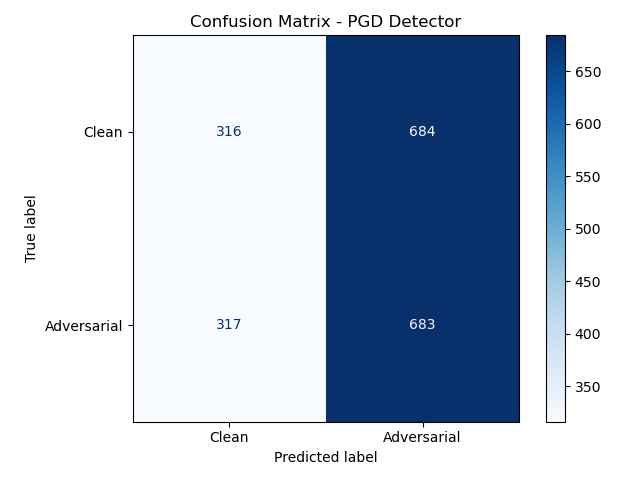
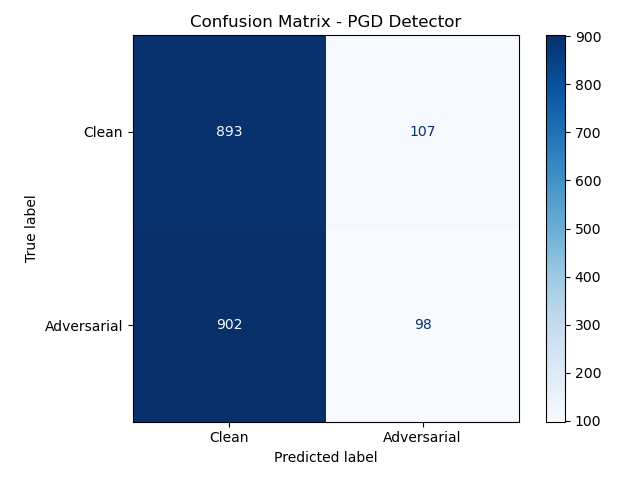
train detectors handmade

diff --git a/train_detectors.py b/train_detectors.py
@@ -2,10 +2,10 @@ import argparse
 import numpy as np
 import os
 from detector_training_set import generate_train_adv
-from nets import setup_classifierNN1, setup_detector_classifier
+from nets import get_detector, setup_classifierNN1, setup_detector_classifier
 from art.defences.detector.evasion import BinaryInputDetector
 import torch
-from dataset import get_train_set
+from detector_training_set import get_train_set
 from utils import *
 
 
@@ -36,33 +36,61 @@ def main():
 
     #### FASE DI TRAINING ####
     detectors = {}
-    for attack_type in attack_types:
-        model_path = os.path.join("./models", f"{attack_type}_detector.pth")
-        detector_classifier = setup_detector_classifier(device)
+    if False:
+        for attack_type in attack_types:
+            model_path = os.path.join("./models", f"{attack_type}_detector.pth")
+            detector_classifier = setup_detector_classifier(device)
 
-        print(f"Training detector for attack: {attack_type}")
-        detectors[attack_type] = BinaryInputDetector(detector_classifier)
-        
-        # Trainining set avversario
-        training_set_path = os.path.join("./dataset/detectors_train_set/adversarial_examples/", attack_type)
-        train_images_adv=load_images_from_npy_folder(training_set_path)
-        train_images_adv = np.concatenate(train_images_adv, axis=0)
-        print(f"Train clean images shape: {np.shape(train_images_clean)}")
-        print(f"Train images adversarial shape: {np.shape(train_images_adv)}")
+            print(f"Training detector for attack: {attack_type}")
+            detectors[attack_type] = BinaryInputDetector(detector_classifier)
+            
+            # Trainining set avversario
+            training_set_path = os.path.join("./dataset/detectors_train_set/adversarial_examples/", attack_type)
+            train_images_adv=load_images_from_npy_folder(training_set_path)
+            train_images_adv = np.concatenate(train_images_adv, axis=0)
+            print(f"Train clean images shape: {np.shape(train_images_clean)}")
+            print(f"Train images adversarial shape: {np.shape(train_images_adv)}")
 
-        # Concatenazione delle immagini clean e avversarie
-        x_train_detector = np.concatenate((train_images_clean, train_images_adv), axis=0)
+            # Concatenazione delle immagini clean e avversarie
+            x_train_detector = np.concatenate((train_images_clean, train_images_adv), axis=0)
 
-        # Creazione delle etichette per il training set
-        y_train_detector = np.concatenate((np.array([[1, 0]] * nb_train), np.array([[0, 1]] * np.shape(train_images_adv)[0])), axis=0)
+            # Creazione delle etichette per il training set
+            y_train_detector = np.concatenate((np.array([[1, 0]] * nb_train), np.array([[0, 1]] * np.shape(train_images_adv)[0])), axis=0)
 
-        # Inizio addestramento del detector
-        detectors[attack_type].fit(x_train_detector, y_train_detector, nb_epochs=20, batch_size=16, verbose=True)
-        detector_classifier.model.eval()
+            # Inizio addestramento del detector
+            detectors[attack_type].fit(x_train_detector, y_train_detector, nb_epochs=20, batch_size=16, verbose=True)
+            detector_classifier.model.eval()
 
-        # Salvataggio dello state_dict del modello
-        torch.save(detector_classifier.model.state_dict(), model_path)
-        print(f"Detector salvato in: {model_path}")
+            # Salvataggio dello state_dict del modello
+            torch.save(detector_classifier.model.state_dict(), model_path)
+            print(f"Detector salvato in: {model_path}")
+    else:
+        for attack_type in attack_types:
+            model_path = os.path.join("./models", f"{attack_type}_detector.pth")
+            detector = get_detector(device)
+
+            print(f"Training detector for attack: {attack_type}")
+            
+            # Trainining set avversario
+            training_set_path = os.path.join("./dataset/detectors_train_set/adversarial_examples/", attack_type)
+            train_images_adv=load_images_from_npy_folder(training_set_path)
+            train_images_adv = np.concatenate(train_images_adv, axis=0)
+            print(f"Train clean images shape: {np.shape(train_images_clean)}")
+            print(f"Train images adversarial shape: {np.shape(train_images_adv)}")
+
+            # Concatenazione delle immagini clean e avversarie
+            x_train_detector = np.concatenate((train_images_clean, train_images_adv), axis=0)
+
+            # Creazione delle etichette per il training set
+            y_train_detector = np.concatenate((np.array([[1, 0]] * nb_train), np.array([[0, 1]] * np.shape(train_images_adv)[0])), axis=0)
+
+            # Inizio addestramento del detector
+            # Converti i numpy array in tensori PyTorch
+            x_train_tensor = torch.tensor(x_train_detector, dtype=torch.float32)
+            y_train_tensor = torch.tensor(np.argmax(y_train_detector, axis=1), dtype=torch.long)
+            # Train and save
+            detector.fit(x_train_tensor, y_train_tensor, nb_epochs=20, batch_size=16, verbose=True, model_path=model_path, device=device)
+
 
 if __name__ == "__main__":
     main()

diff --git a/nets.py b/nets.py
@@ -7,6 +7,7 @@ import torch.nn.functional as F
 from facenet_pytorch.models.inception_resnet_v1 import InceptionResnetV1
 from torch.optim import Adam
 from art.estimators.classification import PyTorchClassifier
+from torch.utils.data import DataLoader, TensorDataset, random_split
 
 NUM_CLASSES = 8631  # Numero di classi nel dataset VGGFace2
 
@@ -231,6 +232,88 @@ class AdversarialDetector(nn.Module):
         feats = self.backbone(x)  # [B, 512, 1, 1]
         feats = feats.view(feats.size(0), -1)
         return self.classifier(feats)
+    
+    def fit(self, x_train, y_train, nb_epochs=20, batch_size=16, verbose=True,
+        lr=1e-4, device='cpu', model_path="./models/detector.pth", patience=3):
+    
+        self.to(device)
+
+        # Split 80/20
+        dataset = TensorDataset(x_train, y_train)
+        total_size = len(dataset)
+        val_size = int(0.2 * total_size)
+        train_size = total_size - val_size
+        train_dataset, val_dataset = random_split(dataset, [train_size, val_size])
+        
+        train_loader = DataLoader(train_dataset, batch_size=batch_size, shuffle=True)
+        val_loader = DataLoader(val_dataset, batch_size=batch_size, shuffle=False)
+
+        criterion = nn.CrossEntropyLoss()
+        optimizer = Adam(self.parameters(), lr=lr)
+
+        best_val_loss = float('inf')
+        epochs_no_improve = 0
+        best_model_state = None
+
+        for epoch in range(nb_epochs):
+            self.train()
+            running_loss = 0.0
+
+            for inputs, labels in train_loader:
+                inputs, labels = inputs.to(device), labels.to(device)
+
+                optimizer.zero_grad()
+                outputs = self(inputs)
+                loss = criterion(outputs, labels)
+                loss.backward()
+                optimizer.step()
+
+                running_loss += loss.item() * inputs.size(0)
+
+            epoch_loss = running_loss / train_size
+
+            # === Validation ===
+            self.eval()
+            val_loss = 0.0
+            correct = 0
+            total = 0
+
+            with torch.no_grad():
+                for inputs, labels in val_loader:
+                    inputs, labels = inputs.to(device), labels.to(device)
+                    outputs = self(inputs)
+                    loss = criterion(outputs, labels)
+                    val_loss += loss.item() * inputs.size(0)
+
+                    preds = torch.argmax(outputs, dim=1)
+                    correct += (preds == labels).sum().item()
+                    total += labels.size(0)
+
+            val_loss /= val_size
+            val_acc = correct / total
+
+            if verbose:
+                print(f"Epoch {epoch+1}/{nb_epochs} - Train Loss: {epoch_loss:.4f} | Val Loss: {val_loss:.4f} | Val Acc: {val_acc:.4f}")
+
+            # === Early stopping ===
+            if val_loss < best_val_loss:
+                best_val_loss = val_loss
+                best_model_state = self.state_dict()
+                epochs_no_improve = 0
+            else:
+                epochs_no_improve += 1
+                if epochs_no_improve >= patience:
+                    print(f"Early stopping at epoch {epoch+1}")
+                    break
+
+        # Ripristina il modello migliore
+        if best_model_state is not None:
+            self.load_state_dict(best_model_state)
+
+        # Salvataggio dello state_dict del modello
+        os.makedirs(os.path.dirname(model_path), exist_ok=True)
+        torch.save(self.state_dict(), model_path)
+        print(f"Detector salvato in: {model_path}")
 
 
 def get_detector(device="cpu"):

diff --git a/detector_training_set.py b/detector_training_set.py
@@ -4,12 +4,18 @@ import random
 import shutil
 import numpy as np
 from PIL import Image
-import torch
 from torch.utils.data import Dataset, DataLoader
+from torchvision import transforms
 from attacks import BIM, CW, DF, FGSM, PGD
 from utils import save_images_as_npy
 
 NUM_CLASSES = 8631
+
+# Trasforma l'immagine in float, in tensore e poi la rappresenta da un intervallo [0, 255] a [-1, 1]
+trans = transforms.Compose([
+    transforms.ToTensor(),  # converte da HWC uint8 [0, 255] numpy → CHW float32 [0.0, 1.0] tensor
+    transforms.Normalize(mean=[0.5, 0.5, 0.5], std=[0.5, 0.5, 0.5])  # [0,1] → [-1,1] 
+])
 
 def get_train_set(images_dir="./dataset/detectors_train_set/clean/processed"):
     return TrainSet(images_dir)
